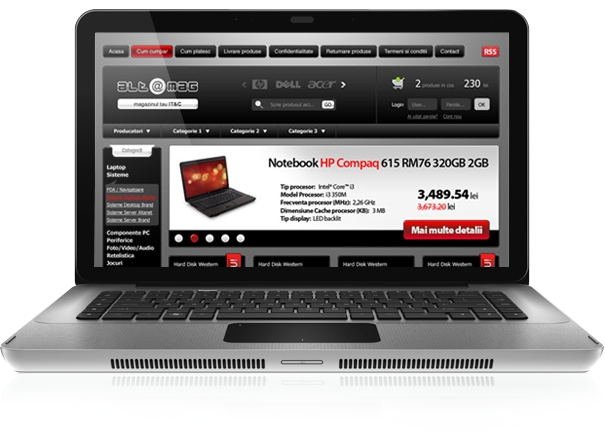
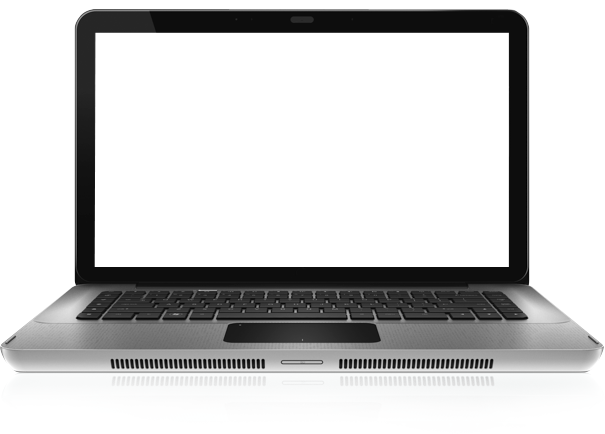
big block 'projects' finished

diff --git a/2/files/styles/style.css b/2/files/styles/style.css
@@ -1,7 +1,9 @@
-html, body, ol, ul, li {
+/*css reset*/
+html, body, ol, ul, li, h1, h2, h3, h4, h5, h6, hr {
 	margin: 0;
 	padding: 0;
 }
+/*for floating*/
 .left {float: left;}
 .right {float: right;}
 .clearfix:after {
@@ -10,8 +12,14 @@ html, body, ol, ul, li {
 	clear: both;
 }
 
+/*general*/
 body {
 	background-color: black;
+	background-image: 
+	url(../img/brush.png),
+	-webkit-radial-gradient(center 30%, circle farthest-side, #aaa 0%, #888 10%, black 50%);
+	background-position: 120px 0, center;
+	background-repeat: no-repeat;
 	color: white;
 	height: 100%;
 }
@@ -24,6 +32,7 @@ body {
 	margin: 0 auto;
 	z-index: 1;
 }
+
 
 /*Navigation*/
 .navigation {
@@ -62,49 +71,123 @@ body {
 .logo:hover {
 	box-shadow: inset 0 0 30px white;
 }
-.logo-brush {
-	position: absolute;
-	top: 0;
-	left: -75px;
-	width: 446px;
-	height: 305px;
-	background-image: url(../img/brush.png);
-	opacity: 0.4;
-}
 
 
-/*Projects*/
+/*Projects block*/
 .projects {
 	position: relative;
-	width: 960px;
+	max-width: 960px;
 	margin: 0 auto;
+	margin-bottom: 130px 
 }
 
+/*side blocks*/
+ .side-blocks {
+ 	padding: 0 15px;
+ }
+ .names {
+ 	padding: 30px 15px 25px;
+ 	font-size: 1.5em;
+ }
+ .windows-and-links{
+ 	padding: 15px;
+ 	background-color: white;
+ 	border-radius: 5px;
+ }
+ .windows {
+ 	padding: 25px 10px 20px;
+ 	border-bottom: 2px solid gray;
+ }
+ .window{
+ 	width: 200px;
+ 	height: 105px; 
+ }
+ .window:hover {
+ 	box-shadow: 0 0 50px black; /*Проблема с зоной клика*/
+ }
+ .webdesign{
+ 	background: gray url(../img/left_side.png) -48px -18px;
+ }
+ .webcoding {
+ 	background: pink url(../img/right_side.png) -105px -25px ;
+ }
+ /*side blocks Back/next links*/
+ .back, .next {
+ 	padding: 5px 15px;
+	margin-top: 5px;
+ 	text-decoration: none;
+ 	color: black;
+ 	font-weight: bold;
+ 	border-radius: 5px;
+
+ }
+ .back:before {
+ 	content: "";
+ 	display: inline-block;
+ 	width: 21px;
+ 	height: 21px;
+	margin-right: 10px; 
+ 	background: url(../img/back_next.png);
+ }
+ .next:after {
+ 	content: "";
+ 	display: inline-block;
+ 	width: 21px;
+ 	height: 21px;
+	margin-left: 10px;
+ 	background: url(../img/back_next.png) 0px 22px;
+ }
+ .back:hover, .next:hover {
+ 	box-shadow: inset 0 0 20px black;
+ }
+
+/*Laptop*/
 .laptop {
-	position: relative;
-	width: 605px;
-	margin: 0 auto;
+	position: absolute;
+	top: 0;
+	left: calc(50% - 303px);
 }
 .laptop-img {
 	position: relative;
 	z-index: 3;
 }
+.laptop-screen {
+	position: absolute;
+	top: 33px;
+	left: 94px; /*width to left side*/
+	width: 415px;
+	height: 235px;
+	background: white url(../img/laptop-screen.png) -90px -35px ;
+	z-index: 3;
+}
+.laptop-screen:hover {
+	box-shadow: 0 0 50px white;
+}
 .corner-tape {
 	position: absolute;
-	top: 0;
-	right: 66px;
+	top: -30px;
+	right: -30px;
 	z-index: 4;
 }
-.laptop-light {
-	position: absolute;
-	top: -180px;
-	left: calc(50% - 577px);
-	width: 1154px;
-	height: 619px;
-	background-image: url(../img/gradient.png);
+/*hiding laptop in small sizes*/
+@media all and (max-width: 767px) {
+	.laptop{
+		position: relative;
+		margin-top: 20px; 
+	}
+	.projects {
+		margin-bottom: 0;
+	}
 }
 
+ 
 
 
+
+/*main*/
+.layout {
+	background-color: white;
+	color: black; 
+}
 
 

diff --git a/2/index.html b/2/index.html
@@ -32,29 +32,28 @@
 	</header>
 
 	<div class="projects">
+		<div class="side-blocks">
+			<div class="names clearfix">
+				<h2 class="left">WebDesign</h2>
+				<h2 class="right">WebCoding</h2>
+			</div>
+			<div class="windows-and-links">
+				<div class="windows clearfix">
+					<a href="#" class="webdesign window left"></a>
+					<a href="#" class="webcoding window right"></a>
+				</div>
+				<div class="links clearfix">
+					<a href="#" class="back left">Back</a>
+					<a href="#" class="next right">Next</a>
+				</div>
+			</div>
+		</div>
 
 		<div class="laptop">
-			<img src="files/img/laptop.png" alt="laptop" class="laptop-img">
-			<img src="files/img/last_project.png" alt="corner-tape" class="corner-tape">
-			<div class="laptop-light"></div>
-		</div>
-
-		<div class="webdesign">
-			<h2>WebDesign</h2>
-			<div class="projec-block">
-				<div class="project-img"></div>
-				<hr>
-				<a href="#" class="project-button"></a>
-			</div>
-		</div>
-
-		<div class="webcoding">
-			<h2>WebCoding</h2>
-			<div class="projec-block">
-				<div class="project-img"></div>
-				<hr>
-				<a href="#" class="project-button"></a>
-			</div>
+				<img src="files/img/laptop.png" alt="laptop" class="laptop-img">
+				<a href="#" class="laptop-screen">
+					<img src="files/img/last_project.png" alt="corner-tape" class="corner-tape">
+				</a>
 		</div>
 	</div>
 
